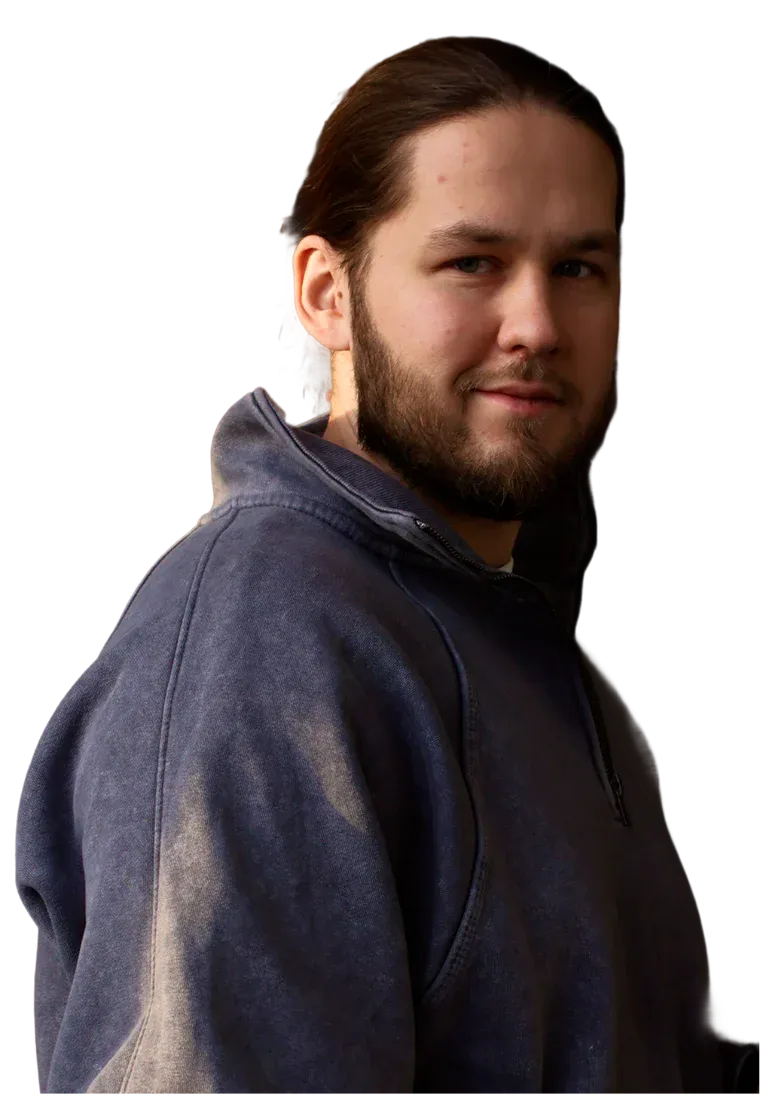
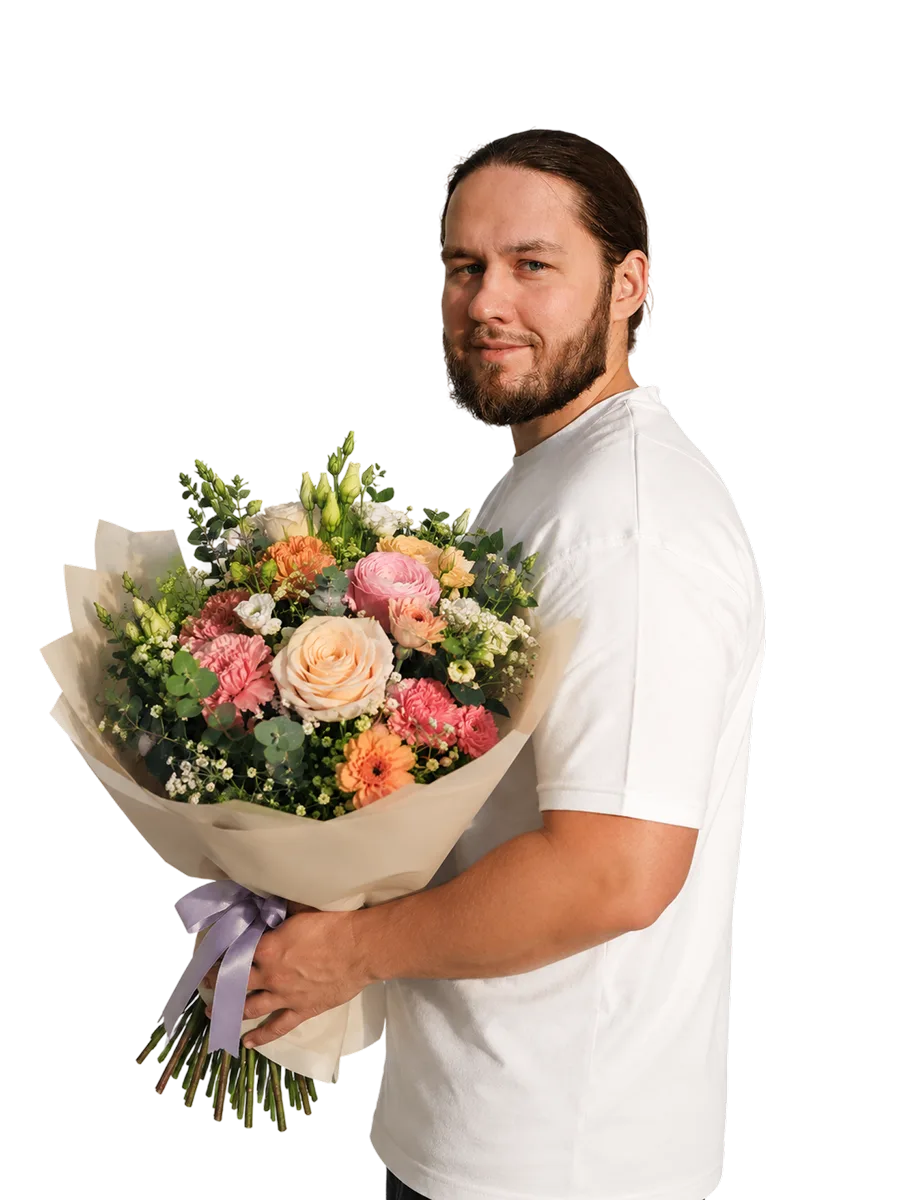
КП «Цветы без повода»: фото Дениса с букетом, значки подарка в бонусах и на вкладке

diff --git a/cvety-bez-povoda/index.html b/cvety-bez-povoda/index.html
@@ -62,9 +62,10 @@ ul.list li:before{content:"";position:absolute;left:0;top:.45em;width:14px;heigh
 .cover h1{margin-bottom:22px}
 .cover .for{font-size:clamp(20px,2.2vw,30px);color:#8b8984;line-height:1.25;margin-bottom:34px}
 .person{position:absolute;right:2%;bottom:0;width:min(48%,600px);z-index:1}
-.person.denis{width:min(40%,480px)}
+.person.denis{width:min(46%,580px)}
 .chips{position:absolute;right:max(36%,300px);top:24%;z-index:3;display:grid;gap:14px}
 .chip{display:flex;align-items:center;gap:12px;background:var(--white);border-radius:18px;padding:12px 18px 12px 12px;box-shadow:0 12px 30px rgba(0,0,0,.07);font-size:14px;line-height:1.25;position:relative}
+.chips-d{right:44%;top:auto;bottom:3%}
 .chip:nth-child(2){margin-left:-40px}.chip:nth-child(3){margin-left:20px}
 .chip .ic{width:36px;height:36px;border-radius:10px;display:grid;place-items:center;color:#fff;font-weight:700;font-size:13px}
 .chip small{display:block;color:var(--muted)}
@@ -120,6 +121,13 @@ ul.list li:before{content:"";position:absolute;left:0;top:.45em;width:14px;heigh
 .gift .was b{font-size:clamp(28px,2.6vw,36px);font-weight:600;letter-spacing:-.02em}
 .gift .was em{font-style:normal;background:var(--lime);border-radius:999px;padding:4px 12px;font-weight:600;font-size:14px}
 
+.gi{width:1em;height:1em;vertical-align:-.15em;margin-right:6px}
+.seg a .gi{color:var(--accent)}.seg a[aria-current="page"] .gi{color:var(--lime)}
+.giftbadge{width:64px;height:64px;border-radius:50%;background:var(--lime);color:var(--dark);display:grid;place-items:center;margin:18px auto 0;font-size:30px}
+.giftbadge .gi{margin:0}
+.steps .gifted{background:#2f3a14;box-shadow:inset 0 0 0 1px var(--lime)}
+.gtag{display:inline-flex;align-items:center;background:var(--lime);color:var(--dark);border-radius:999px;padding:4px 12px;font-size:13px;font-weight:600;margin-bottom:10px}
+.steps .gtag{color:var(--dark)}
 /* автор */
 .author{display:grid;grid-template-columns:300px 1fr;gap:clamp(24px,4vw,56px);align-items:end;padding-bottom:0}
 .author img{width:100%}
@@ -171,7 +179,7 @@ dialog form button{all:unset;cursor:pointer;color:#fff;font-size:34px;line-heigh
   <div class="seg">
     <a href="#site" data-tab="site">Сайт</a>
     <a href="#direct" data-tab="direct">Яндекс Директ</a>
-    <a href="#bonus" data-tab="bonus">Бонусы</a>
+    <a href="#bonus" data-tab="bonus"><svg class="gi" viewBox="0 0 24 24" aria-hidden="true"><path d="M20 12v9H4v-9M2 7h20v5H2zM12 21V7M12 7H7.5a2.5 2.5 0 1 1 0-5C11 2 12 7 12 7zM12 7h4.5a2.5 2.5 0 1 0 0-5C13 2 12 7 12 7z" fill="none" stroke="currentColor" stroke-width="2" stroke-linecap="round" stroke-linejoin="round"/></svg>Бонусы</a>
   </div>
 </nav>
 
@@ -347,12 +355,12 @@ dialog form button{all:unset;cursor:pointer;color:#fff;font-size:34px;line-heigh
     <p class="for">Для «Цветы без повода», Курск. Заказы с поиска Яндекса прямо в интернет-магазин</p>
     <a class="btn" href="#direct-price">Стоимость настройки <i>↓</i></a>
   </div>
-  <div class="chips" aria-hidden="true">
+  <div class="chips chips-d" aria-hidden="true">
     <div class="chip"><span class="ic" style="background:#fc3f1d">Я</span><div>Новый заказ<small>Поиск Яндекса</small></div><em>+4</em></div>
     <div class="chip"><span class="ic" style="background:#fc3f1d">Я</span><div>Звонок<small>Яндекс Директ</small></div><em>+2</em></div>
     <div class="chip"><span class="ic" style="background:#fc3f1d">Я</span><div>Новый заказ<small>Ретаргетинг</small></div><em>+1</em></div>
   </div>
-  <img class="person denis" src="img/denis.webp" alt="Денис Коротаев" width="760" height="1094">
+  <img class="person denis" src="img/denis.webp" alt="Денис Коротаев" width="900" height="1199">
 </section>
 
 <section class="slide">
@@ -398,7 +406,7 @@ dialog form button{all:unset;cursor:pointer;color:#fff;font-size:34px;line-heigh
 </section>
 
 <section class="slide author">
-  <img src="img/denis.webp" alt="Денис Коротаев" loading="lazy" width="760" height="1094">
+  <img src="img/denis.webp" alt="Денис Коротаев" loading="lazy" width="900" height="1199">
   <div class="txt">
     <span class="pill">Реклама</span>
     <h2>Денис Коротаев, основатель агентства Target Factory</h2>
@@ -440,11 +448,12 @@ dialog form button{all:unset;cursor:pointer;color:#fff;font-size:34px;line-heigh
 
 <section class="slide price center">
   <span class="pill">Итого</span>
+  <div class="giftbadge"><svg class="gi" viewBox="0 0 24 24" aria-hidden="true"><path d="M20 12v9H4v-9M2 7h20v5H2zM12 21V7M12 7H7.5a2.5 2.5 0 1 1 0-5C11 2 12 7 12 7zM12 7h4.5a2.5 2.5 0 1 0 0-5C13 2 12 7 12 7z" fill="none" stroke="currentColor" stroke-width="2" stroke-linecap="round" stroke-linejoin="round"/></svg></div>
   <h2>Подарков на 50 000 ₽</h2>
   <p class="lead">Условие: продление работы по Яндекс Директу на второй месяц.</p>
   <div class="steps two" style="margin-top:30px">
     <div><b>15 000 ₽ / 3 мес.</b><span>подписка Яндекс Бизнеса – оплачивается в Яндексе отдельно</span></div>
-    <div><b>15 000 ₽ / 6 мес.</b><span>та же подписка с промокодом</span></div>
+    <div class="gifted"><span class="gtag"><svg class="gi" viewBox="0 0 24 24" aria-hidden="true"><path d="M20 12v9H4v-9M2 7h20v5H2zM12 21V7M12 7H7.5a2.5 2.5 0 1 1 0-5C11 2 12 7 12 7zM12 7h4.5a2.5 2.5 0 1 0 0-5C13 2 12 7 12 7z" fill="none" stroke="currentColor" stroke-width="2" stroke-linecap="round" stroke-linejoin="round"/></svg>Подарок</span><b>15 000 ₽ / 6 мес.</b><span>та же подписка с промокодом – 3 месяца в подарок</span></div>
   </div>
 </section>
 
